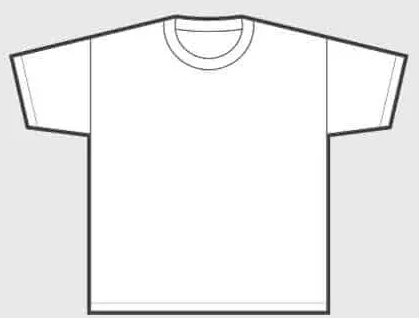
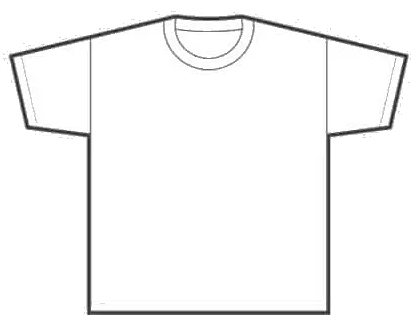
Recolor the shirt canvas from the selected Pantone fabric color
The template images had an opaque light-gray background rectangle, so
punched that out to transparent (only the shirt outline/fill stay
opaque). ShirtCanvas now overlays a rect filled with garment.fabricHex,
masked by the template image itself (its luminance/alpha) so only the
white fill area picks up color while the outline stays dark and the
canvas background stays clear. mix-blend-mode: multiply on top lets
any interior shading in the line art show through under the color.

diff --git a/src/components/canvas/ShirtCanvas.tsx b/src/components/canvas/ShirtCanvas.tsx
@@ -1,3 +1,4 @@
+import { useId } from 'react';
 import type { Face, GarmentSpec, PrintZone } from '../../types';
 import { canvasSize, templateImage, zoneRect } from '../../lib/geometry';
 import { ZonePrint } from './ZonePrint';
@@ -24,11 +25,31 @@ export function ShirtCanvas({
 }) {
   const { width, height, originX, originY } = canvasSize(garment);
   const faceZones = zones.filter((z) => z.face === face);
+  const placement = templateImage(garment.chestWidthCm, face);
+  const maskId = useId();
 
   return (
     <svg viewBox={`0 0 ${width} ${height}`} className="w-full h-auto select-none">
       <g transform={`translate(${originX} ${originY})`}>
-        <image {...templateImage(garment.chestWidthCm, face)} preserveAspectRatio="none" />
+        <image {...placement} preserveAspectRatio="none" />
+
+        {garment.fabricHex && (
+          <>
+            <mask id={maskId}>
+              <image {...placement} preserveAspectRatio="none" />
+            </mask>
+            <rect
+              x={placement.x}
+              y={placement.y}
+              width={placement.width}
+              height={placement.height}
+              fill={garment.fabricHex}
+              mask={`url(#${maskId})`}
+              style={{ mixBlendMode: 'multiply' }}
+              pointerEvents="none"
+            />
+          </>
+        )}
 
         {faceZones.map((zone) => {
           const rect = zoneRect(zone, garment);